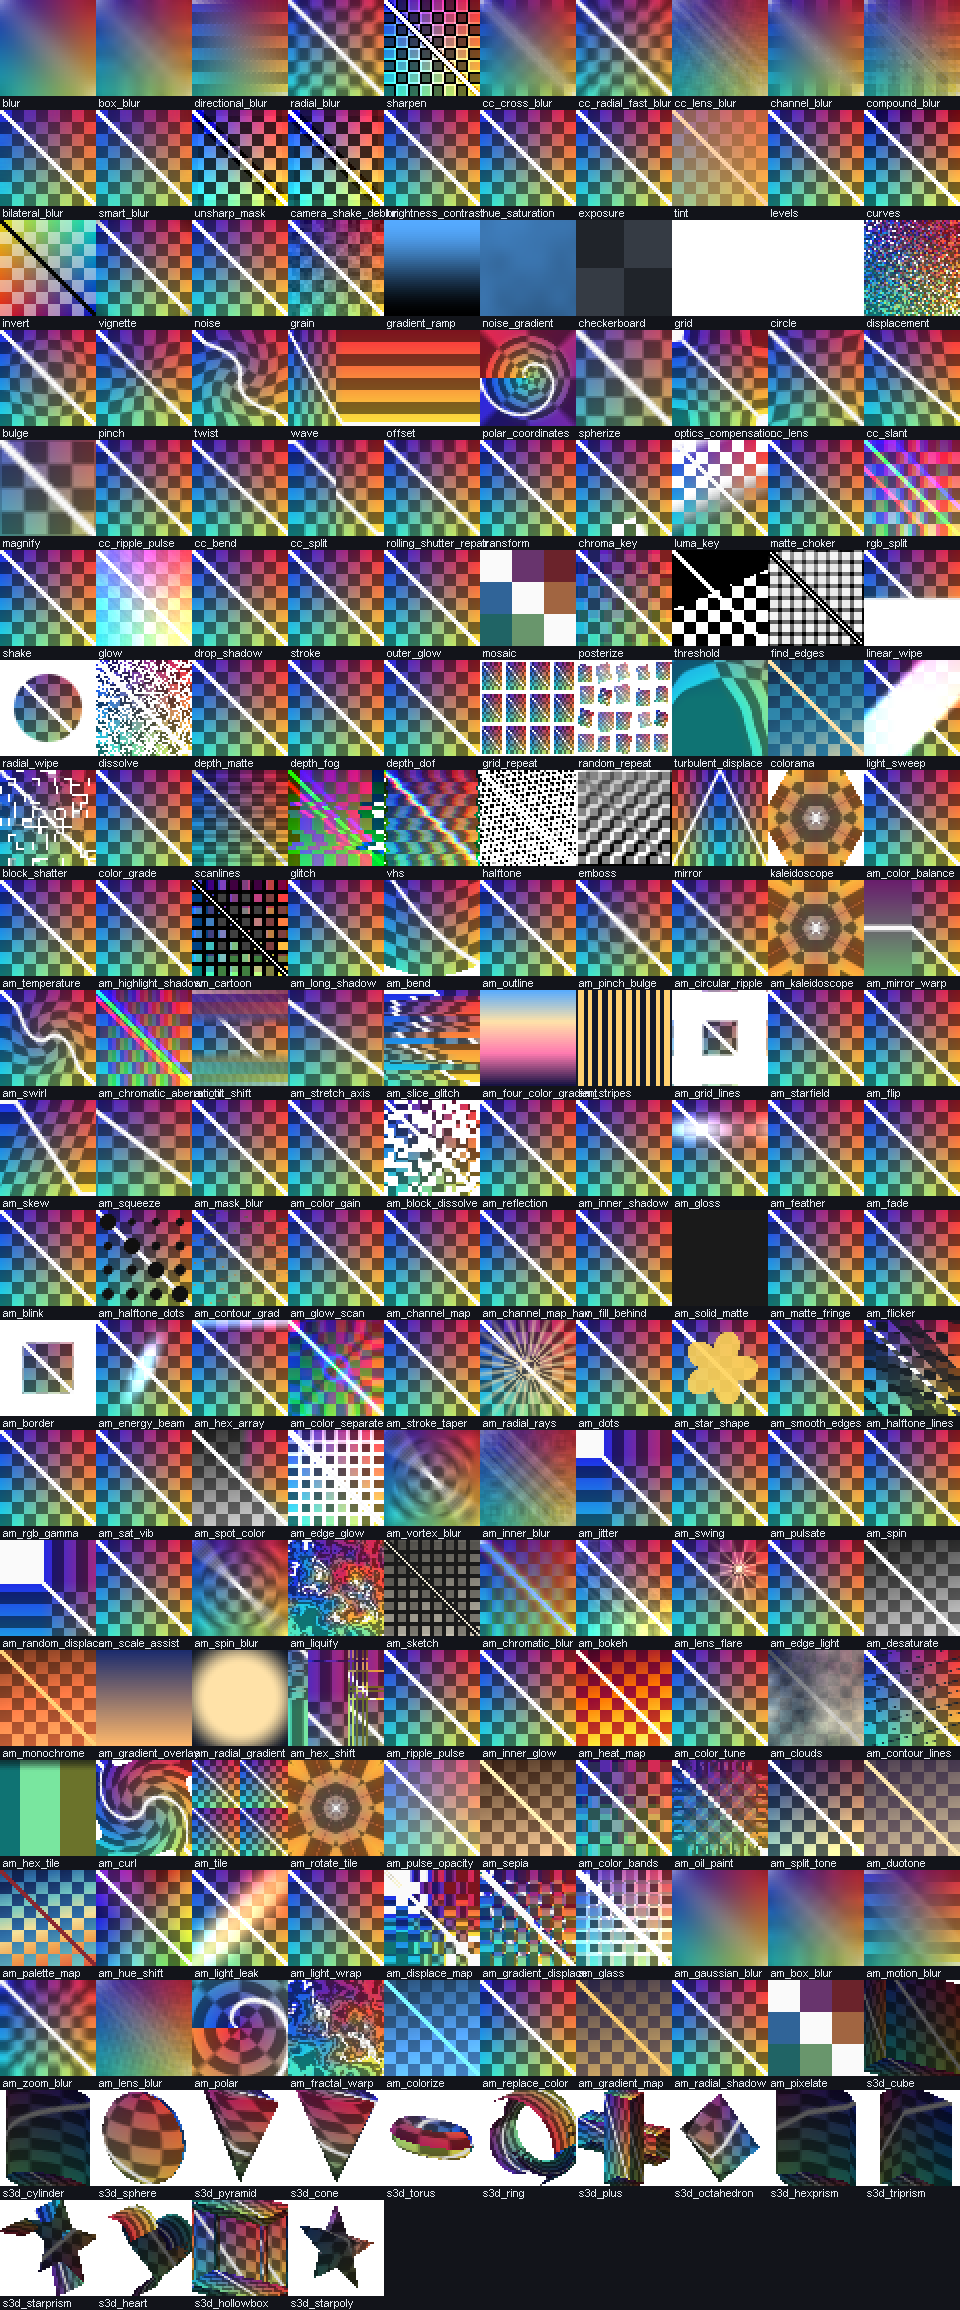
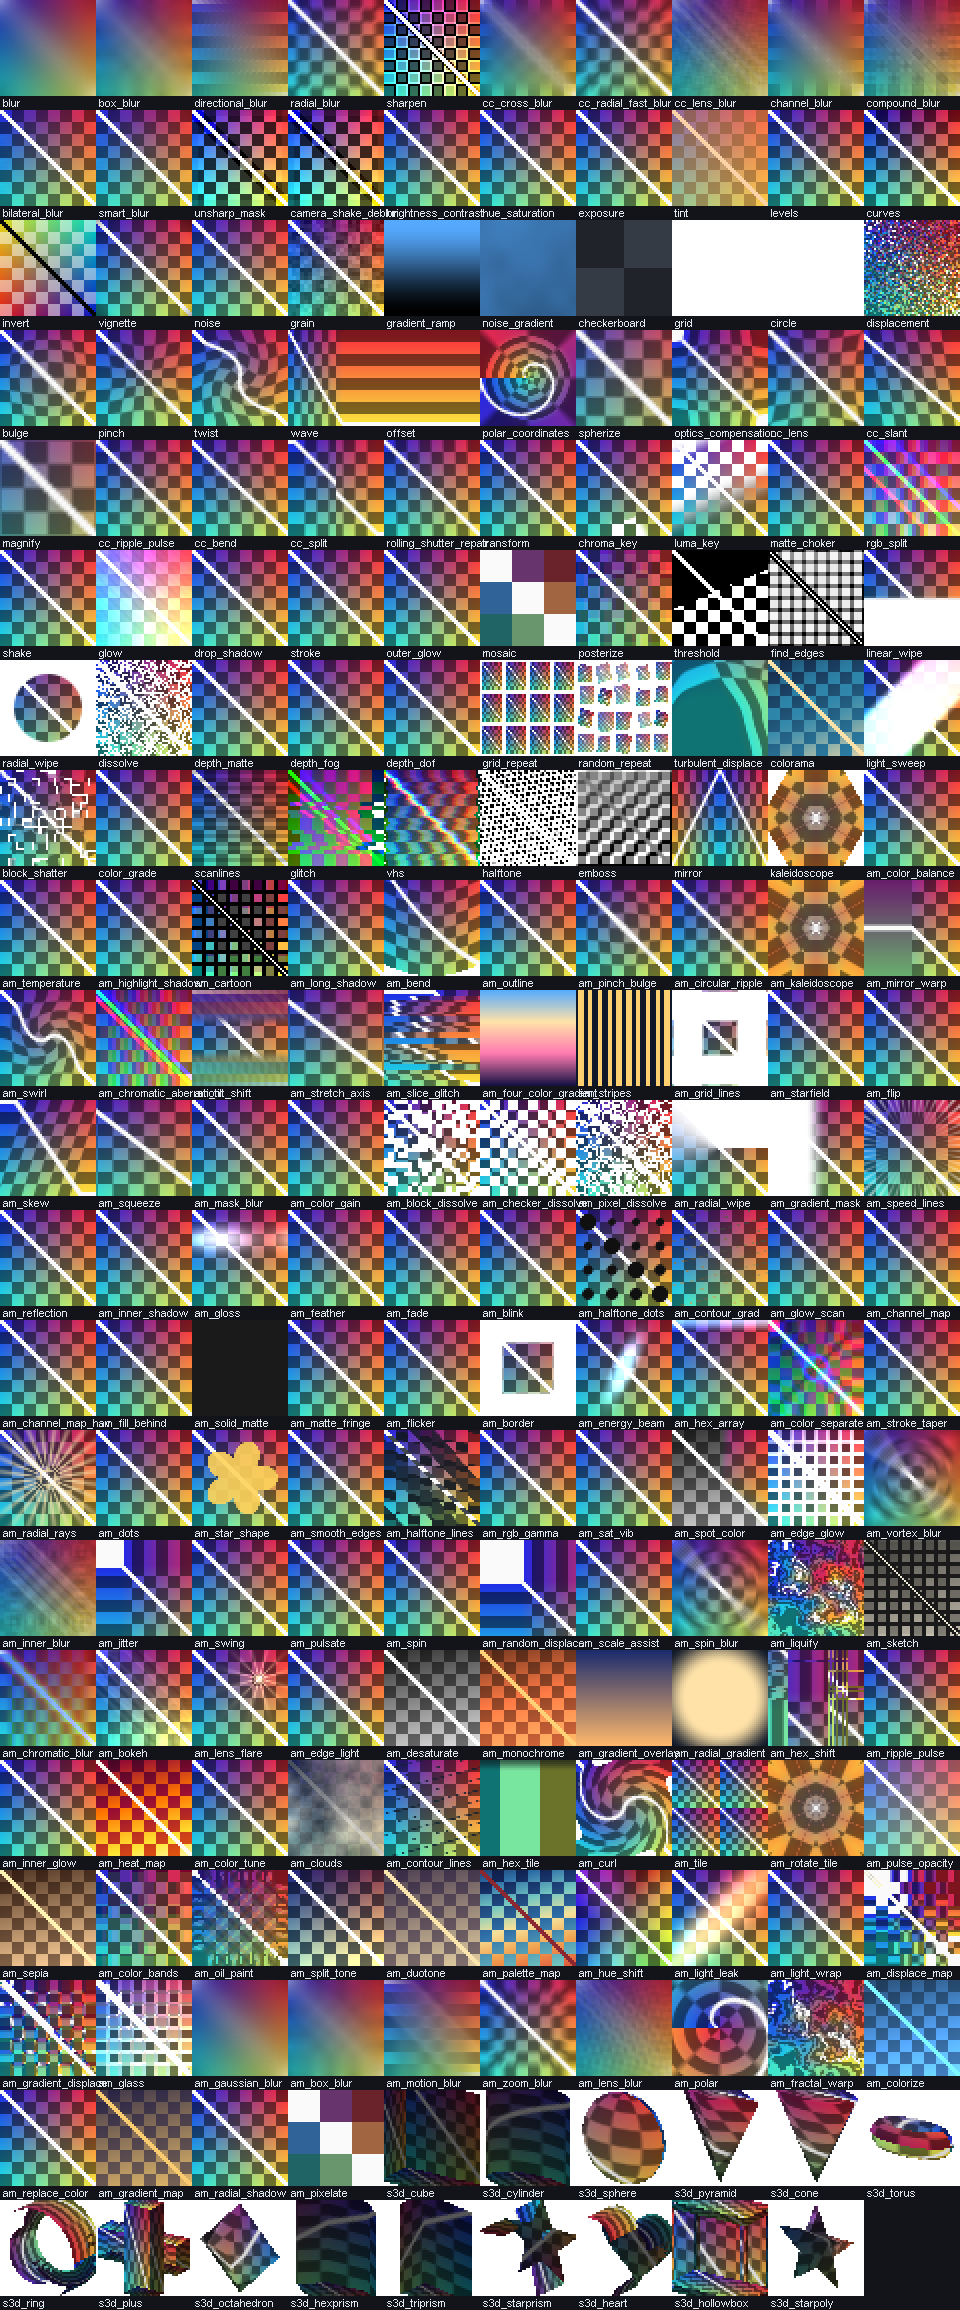
feat(0.55): transition and reveal batch
- 棋盘溶解 (checker dissolve), 像素溶解 (random pixel dissolve), 径向擦除（角度） (angular wipe),
  渐变遮罩 (linear gradient wipe) under a new AM · 转场 group; progress 1 = identity via
  neutralWhen.
- 速度线 (radial speed streaks) under AM · 生成.
- Renamed the angular wipe to 径向擦除（角度） to keep library names unique next to the classic
  radial wipe.
- 130 effects total (115 2D + 15 3D); 326 tests green.
- Release bbsae-0.55.jar (SHA-256 5B7D6573220F0265E03EE93959414EC31C193554334752AC09A42972AB593943).

diff --git a/src/main/java/dev/bbsae/comp/AmEffectLibrary.java b/src/main/java/dev/bbsae/comp/AmEffectLibrary.java
@@ -629,6 +629,101 @@ public final class AmEffectLibrary
             .p("blocks", "方块数", 2F, 120F, 20F, 1F)
             .p("seed", "随机种子", 0F, 9999F, 0F, 1F));
 
+        add(new AmEffectDef("am_checker_dissolve", "棋盘溶解", "AM · 透明度", """
+            void main()
+            {
+                vec2 luv = layerUv(vUv);
+                vec4 c = sampleLayer(luv);
+                vec2 cell = floor(luv * max(u_blocks, 1.0));
+                float parity = mod(cell.x + cell.y, 2.0);
+                float threshold = mix(0.0, 1.0, parity * 0.5 + 0.25);
+                float visible = u_progress >= threshold ? 1.0 : 0.0;
+                fragColor = vec4(c.rgb, c.a * visible);
+            }
+            """, 0F, null)
+            .neutralWhen((effect) -> effect.valueF("progress", 0.5F) >= 0.999F)
+            .p("progress", "进度", 0F, 1F, 0.5F, 0.01F)
+            .p("blocks", "棋盘数", 2F, 80F, 10F, 1F));
+
+        add(new AmEffectDef("am_pixel_dissolve", "像素溶解", "AM · 透明度", """
+            void main()
+            {
+                vec2 luv = layerUv(vUv);
+                vec4 c = sampleLayer(luv);
+                vec2 cell = floor(luv * max(u_blocks, 1.0));
+                float rnd = hash(cell + u_seed);
+                float visible = u_progress >= rnd ? 1.0 : 0.0;
+                fragColor = vec4(c.rgb, c.a * visible);
+            }
+            """, 0F, null)
+            .neutralWhen((effect) -> effect.valueF("progress", 0.5F) >= 0.999F)
+            .p("progress", "进度", 0F, 1F, 0.5F, 0.01F)
+            .p("blocks", "像素块数", 4F, 200F, 40F, 1F)
+            .p("seed", "随机种子", 0F, 9999F, 0F, 1F));
+
+        add(new AmEffectDef("am_radial_wipe", "径向擦除（角度）", "AM · 转场", """
+            void main()
+            {
+                vec2 luv = layerUv(vUv);
+                vec4 c = sampleLayer(luv);
+                vec2 center = vec2(u_center_x, u_center_y);
+                vec2 d = (luv - center) * vec2(LayerSize.x / max(LayerSize.y, 1.0), 1.0);
+                float angle = atan(d.y, d.x) + radians(u_angle);
+                float t = fract(angle / 6.2831853);
+                float edge = clamp(u_softness, 0.001, 0.5);
+                float reveal = smoothstep(t - edge, t + edge, clamp(u_progress, 0.0, 1.0));
+                fragColor = vec4(c.rgb, c.a * reveal);
+            }
+            """, 0F, null)
+            .neutralWhen((effect) -> effect.valueF("progress", 0.5F) >= 0.999F)
+            .p("progress", "进度", 0F, 1F, 0.5F, 0.01F)
+            .p("angle", "起始角度", -180F, 180F, 0F, 1F)
+            .p("softness", "边缘柔和", 0.001F, 0.5F, 0.15F, 0.001F)
+            .p("center_x", "中心 X", 0F, 1F, 0.5F, 0.01F)
+            .p("center_y", "中心 Y", 0F, 1F, 0.5F, 0.01F));
+
+        add(new AmEffectDef("am_gradient_mask", "渐变遮罩", "AM · 转场", """
+            void main()
+            {
+                vec2 luv = layerUv(vUv);
+                vec4 c = sampleLayer(luv);
+                vec2 dir = vec2(cos(radians(u_angle)), sin(radians(u_angle)));
+                float t = clamp(dot(luv - 0.5, dir) + 0.5, 0.0, 1.0);
+                float edge = max(u_softness, 0.001);
+                float reveal = smoothstep(u_progress - edge, u_progress + edge, t) * 0.0 + 1.0
+                    - smoothstep(u_progress - edge, u_progress + edge, 1.0 - t);
+                fragColor = vec4(c.rgb, c.a * clamp(reveal, 0.0, 1.0));
+            }
+            """, 0F, null)
+            .neutralWhen((effect) -> effect.valueF("progress", 0.5F) >= 0.999F)
+            .p("progress", "进度", 0F, 1F, 0.5F, 0.01F)
+            .p("angle", "方向", -180F, 180F, 0F, 1F)
+            .p("softness", "边缘柔和", 0.001F, 0.5F, 0.1F, 0.001F));
+
+        add(new AmEffectDef("am_speed_lines", "速度线", "AM · 生成", """
+            void main()
+            {
+                vec2 luv = layerUv(vUv);
+                vec4 c = sampleLayer(luv);
+                vec2 center = vec2(u_center_x, u_center_y);
+                vec2 d = (luv - center) * vec2(LayerSize.x / max(LayerSize.y, 1.0), 1.0);
+                float radius = length(d);
+                float angle = atan(d.y, d.x);
+                float lines = pow(abs(sin(angle * max(u_count, 1.0))), max(u_sharpness, 0.5));
+                float falloff = smoothstep(u_inner, u_outer, radius);
+                float alpha = lines * falloff * clamp(u_alpha, 0.0, 1.0);
+                fragColor = vec4(mix(c.rgb, u_color.rgb, alpha), c.a);
+            }
+            """, 0F, "alpha")
+            .p("count", "线条数", 2F, 64F, 24F, 1F)
+            .p("sharpness", "锐度", 0.5F, 12F, 4F, 0.1F)
+            .p("inner", "内半径", 0F, 1F, 0.2F, 0.01F)
+            .p("outer", "外半径", 0.01F, 2F, 0.8F, 0.01F)
+            .p("alpha", "强度", 0F, 1F, 0.7F, 0.01F)
+            .p("center_x", "中心 X", 0F, 1F, 0.5F, 0.01F)
+            .p("center_y", "中心 Y", 0F, 1F, 0.5F, 0.01F)
+            .c("color", "线条颜色", 0xFFFFFFFF));
+
         add(new AmEffectDef("am_reflection", "倒影", "AM · 合成", """
             void main()
             {

diff --git a/src/test/java/dev/bbsae/comp/AmEffectLibraryTest.java b/src/test/java/dev/bbsae/comp/AmEffectLibraryTest.java
@@ -37,7 +37,7 @@ public class AmEffectLibraryTest
             assertTrue(definition.body.contains("fragColor"), "body writes no colour: " + definition.id);
         }
 
-        assertTrue(ids.size() >= 110, "the catalogue should have grown with the compositing batch");
+        assertTrue(ids.size() >= 115, "the catalogue should have grown with the transition batch");
     }
 
     @Test
@@ -166,6 +166,11 @@ public class AmEffectLibraryTest
         assertNeutral("am_reflection", "strength", 0F);
         assertNeutral("am_inner_shadow", "opacity", 0F);
         assertNeutral("am_gloss", "intensity", 0F);
+        assertNeutral("am_checker_dissolve", "progress", 1F);
+        assertNeutral("am_pixel_dissolve", "progress", 1F);
+        assertNeutral("am_radial_wipe", "progress", 1F);
+        assertNeutral("am_gradient_mask", "progress", 1F);
+        assertNeutral("am_speed_lines", "alpha", 0F);
 
         CompEffect balance = CompEffectRegistry.create("am_color_balance", 1);
 

diff --git a/README.md b/README.md
@@ -110,15 +110,15 @@ export** without touching the `.dat` film format.
 
 ## Download / Install
 
-1. Download [`bbsae-0.54.jar`](https://github.com/zhongend/bbsae/releases/download/v0.54/bbsae-0.54.jar)
-   from the **v0.54** release (the asset is updated with each source push).
+1. Download [`bbsae-0.55.jar`](https://github.com/zhongend/bbsae/releases/download/v0.55/bbsae-0.55.jar)
+   from the **v0.55** release (the asset is updated with each source push).
 2. Install **Minecraft 1.20.1**, **Fabric Loader 0.16.14+**, **Fabric API 0.92.1+1.20.1** and
    **BBS FS 2.7-1.20.1**.
-3. Put `bbsae-0.54.jar` and the BBS FS jar into the game's `mods/` folder.
+3. Put `bbsae-0.55.jar` and the BBS FS jar into the game's `mods/` folder.
 4. Launch the game, open a film in BBS, select a replay, then use
    **Replay properties → Compositor → Open Film Compositor**.
 
[2 lines of base64/hex data omitted]
 
 ## Gallery
 
@@ -185,6 +185,13 @@ The compositor does not re-encode films or patch `.dat` files. BBS serializes a 
 `RegisterFrameOverlaysEvent` point. That means the same composition appears in BBS's preview and in
 its FFmpeg film export, and BBS keeps ownership of keyframes, undo, project storage and video
 encoding.
+
+## What's new in 0.55 — transition and reveal batch
+
+- **棋盘溶解**, **像素溶解**, **径向擦除（角度）**, **渐变遮罩** (`AM · 转场`): progress-driven
+  reveals; progress 1 is the identity and is declared through `neutralWhen`.
+- **速度线** (`AM · 生成`): radial speed streaks with count/sharpness/radius and colour.
+- 130 effects total (115 2D + 15 3D); 326 tests green; library names stay unique.
 
 ## What's new in 0.54 — effect order is preserved around the 3D bake
 

diff --git a/docs/EFFECT-LIBRARY-PLAN.zh.md b/docs/EFFECT-LIBRARY-PLAN.zh.md
@@ -1,6 +1,6 @@
 # 效果库对齐计划（AM 效果体系）
 
-> 进度：125 个效果（110 个 2D 复刻 + 15 个 3D 图元），3D 图元由网格渲染管线绘制。
+> 进度：130 个效果（115 个 2D 复刻 + 15 个 3D 图元），3D 图元由网格渲染管线绘制。
 
 目标：把「混合模式」「效果库」「参数语义」「图标」四项做到与 Alight Motion 的使用体验一致，
 并按第一性原理保证 **每个参数拉到 0 都是原样**（少数天然无零点的效果除外，见第 4 节）。
@@ -179,6 +179,9 @@ switch 中拆出来：
 4.24 **程序化/绘制批**（径向光线、点阵、星形、平滑边缘、半调线；已完成）
 4.25 **边框/光束/阵列批**（边框、能量束、六边形阵列、彩色分离、描边锥度；已完成）
 4.26 **通道/合成批**（通道映射、HSV 通道映射、填充背后、实色遮罩、遮罩边缘、闪烁；已完成）
+4.33 **转场/显隐批**（棋盘溶解、像素溶解、径向擦除（角度）、渐变遮罩、速度线；已完成）
+    - 转场类以"进度 1 = 原图"为恒等值，用 `neutralWhen` 声明。
+
 4.32 **3D 图层效果顺序修复**
     - 之前只有"投影后才能跑"的效果会在合成阶段执行，导致 `s3d_立方体 → 模糊` 实际变成
       "先模糊后立方体"。
